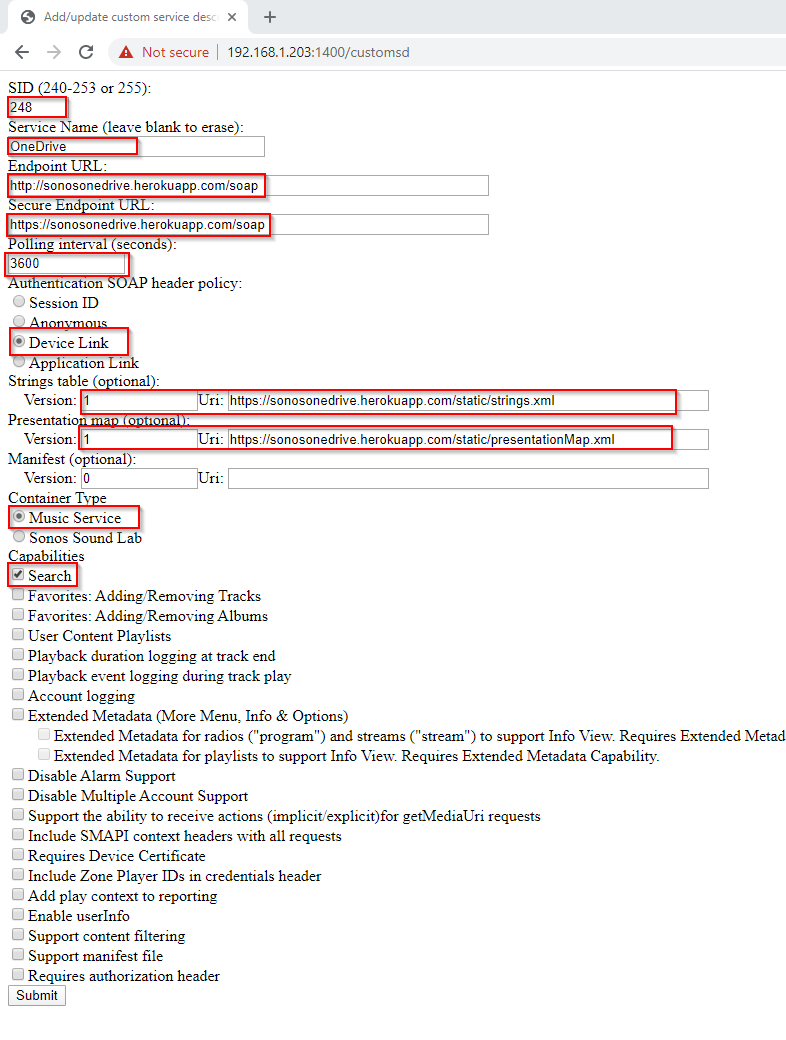
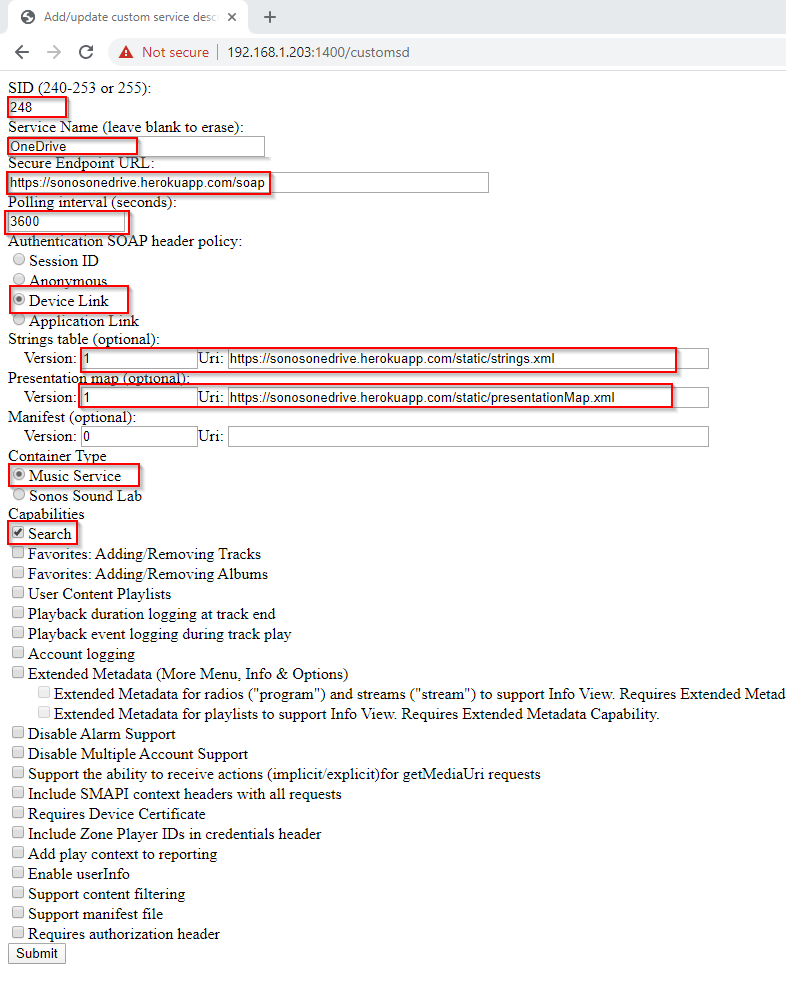
Update instructions to match latest Sonos ui

Changed region(s): [[0.0, 0.0, 1.0, 0.9629]]

diff --git a/sonosonedrive.md b/sonosonedrive.md
@@ -77,7 +77,6 @@ Enter the information below into the form and hit submit. This will add the serv
 
 1. **SID:** 248
 2. **Service Name:** OneDrive
-3. **Endpoint URL:** http://sonosonedrive.herokuapp.com/soap
 4. **Secure Endpoint URL:** https://sonosonedrive.herokuapp.com/soap
 5. **Polling Interval:** 3600
 6. **Authentication SOAP header policy:** Device Link

diff --git a/sonosnpr.md b/sonosnpr.md
@@ -103,7 +103,6 @@ Enter the information below into the form and hit submit at the bottom of the pa
 
 1. **SID:** 255
 2. **Service Name:** NPROne
-3. **Endpoint URL:** http://sonosnprone.herokuapp.com/soap
 4. **Secure Endpoint URL:** https://sonosnprone.herokuapp.com/soap
 5. **Polling Interval:** 3600
 6. **Authentication SOAP header policy:** Device Link
